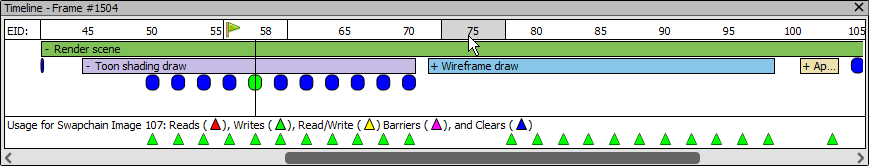
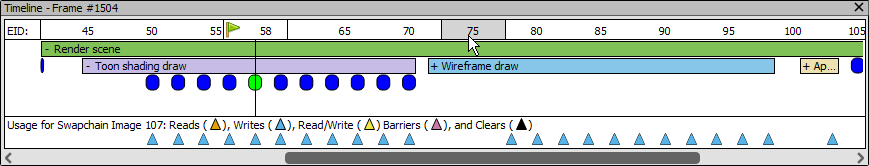
Update quick start image of timeline bar & remove mention of pip colours

diff --git a/docs/getting_started/quick_start.rst b/docs/getting_started/quick_start.rst
@@ -141,7 +141,7 @@ The frame marker hierarchy is top-down in this case, and can be expanded or coll
 
 There is a vertical line around the current drawcall, as well as a |flag_green| above, and a gray outline around the event where the mouse is hovering.
 
-When the currently selected texture is used in the frame, each drawcall that references it draws a marker below the bar. A purple marker indicates that the drawcall at that point is writing to the texture, and a green marker indicates that it is reading. If the markers are too close together they will space themselves to be readable and will not necessarily line up to a particular drawcall unless you zoom in.
+When the currently selected texture is used in the frame, each drawcall that references it draws a marker below the bar. The different colours of marker indicate whether the drawcall at that point is writing to the texture, reading, both reading & writing simultaneously, etc. If the markers are too close together they will space themselves to be readable and will not necessarily line up to a particular drawcall unless you zoom in.
 
 This can be a very useful tool to trace data through a frame, as well as highlighting potential redundancy or errors if a target is being written to where it should not.
 
